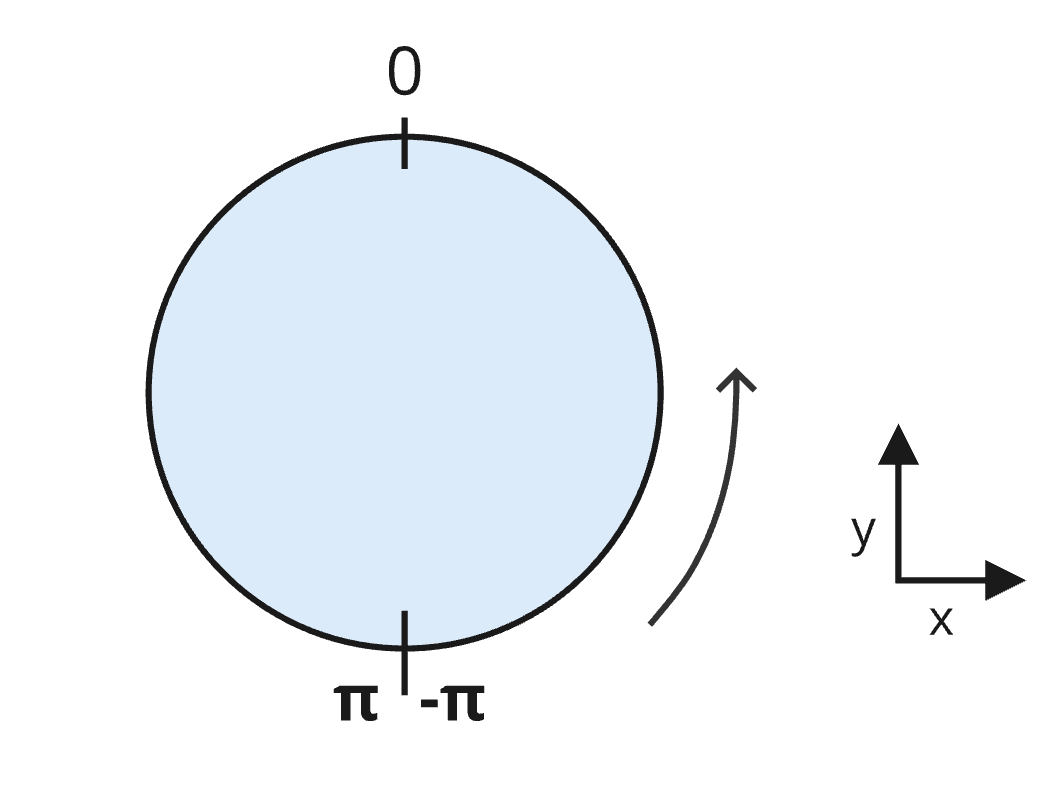
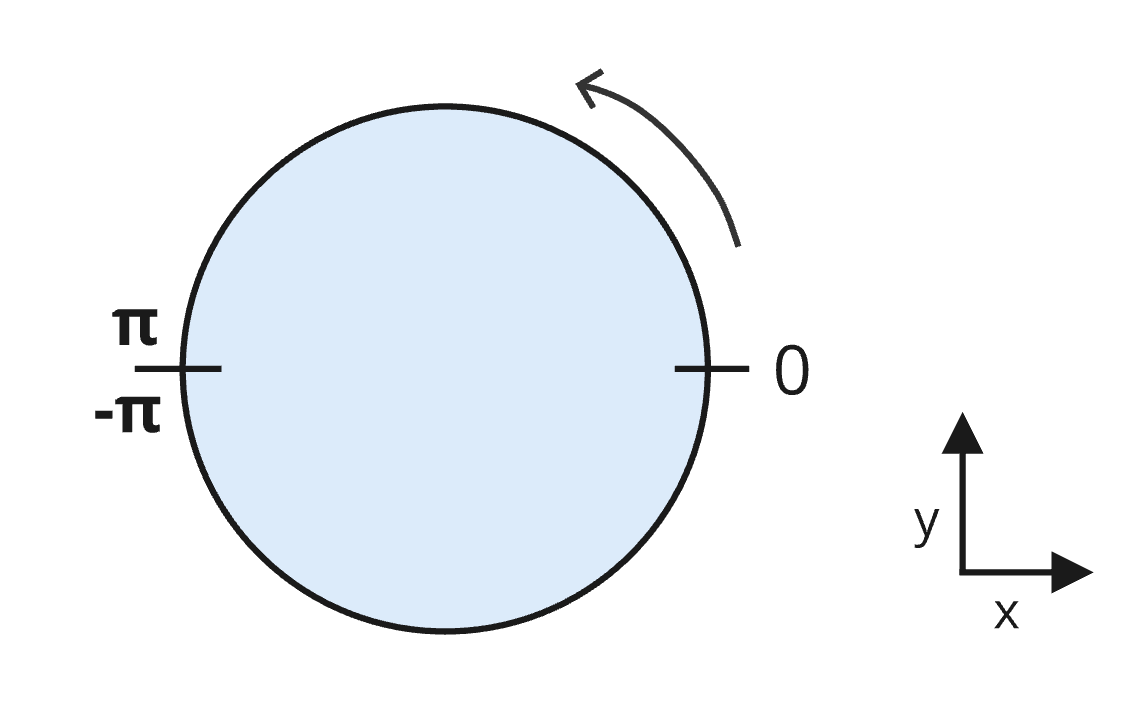
Make changes to angle in bounding cylinders

diff --git a/extensions/3DTILES_content_voxels/README.md b/extensions/3DTILES_content_voxels/README.md
@@ -105,7 +105,7 @@ These conventions align with how implicit tile coordinates defined in [Implicit 
 >
 > (From the glTF's perspective, if its dimensions are `[width, height, depth]`, then a **box** voxel at `[x, y, z]` will be located at `[x, z, (height - 1) - y]` in 3D Tiles.)
 > 
-> For **cylinder** voxels, the grid's height corresponds to `y` in glTF but `z` in 3D Tiles. If the dimensions in `3DTILES_content_voxels` are `[radius, angle, height]`, then the dimensions in `EXT_primitive_voxels` **MUST** be `[radius, height, angle]`. The start of the cylinder's angular data is also affected due to the differing orientations. A **cylinder** voxel at `[x, y, z]` within 3D Tiles is located at `[x, z, a]` in the glTF where `a = [y + (angle / 2)] % angle`. The math is the same vice versa.
+> For **cylinder** voxels, the grid's height corresponds to `y` in glTF but `z` in 3D Tiles. If the dimensions in `3DTILES_content_voxels` are `[radius, angle, height]`, then the dimensions in `EXT_primitive_voxels` **MUST** be `[radius, height, angle]`. Furthermore, the start of the cylinder's angular data is affected by the differing orientations: an angle of `0` aligns with `+x` in 3D Tiles but `-x` in glTF. Therefore, a **cylinder** voxel at `[x, y, z]` within 3D Tiles is located at `[x, z, a]` in the glTF, where `a = [y + (angle / 2)] % angle`. The math is the same vice versa.
 > 
 > The data order of **ellipsoid** voxels is the same between glTF and 3D Tiles. In this case, the `dimensions` in `EXT_primitive_voxels` **MUST** be equal to those in `3DTILES_content_voxels`.
 

diff --git a/extensions/3DTILES_bounding_volume_cylinder/README.md b/extensions/3DTILES_bounding_volume_cylinder/README.md
@@ -57,7 +57,7 @@ The cylinder is centered at the origin, where the `minRadius` and `maxRadius` ar
 
 In addition to these properties—which inherently capture the volume's scale—the cylinder may also be transformed using `translation` and `rotation`. The `rotation` is captured by an array of four numbers `[x, y, z, w]` describing a unit quaternion, where `w` is the scalar.
 
-A cylinder region may also be confined to a certain angular range. Angles are given in radians within the range `[-pi, pi]` and open counter-clockwise around the cylinder. The bounds are aligned such that an angle of `0` falls on the `+y` axis (see figure below).
+A cylinder region may also be confined to a certain angular range. Angles are given in radians within the range `[-pi, pi]` and open counter-clockwise around the cylinder. The bounds are aligned such that an angle of `0` falls on the `+x` axis (see figure below).
 
 ![Cylinder Coordinates](figures/cylinder-coordinates.png)
 
@@ -79,8 +79,8 @@ The `minAngle` and `maxAngle` properties define the angles at which the region s
       "minRadius": 0.5,
       "maxRadius": 1.0,
       "height": 2.0,
-      "minAngle": 1.57079632679,
-      "maxAngle": -1.57079632679
+      "minAngle": -3.1415926,
+      "maxAngle": 0
     }
   }
 }
